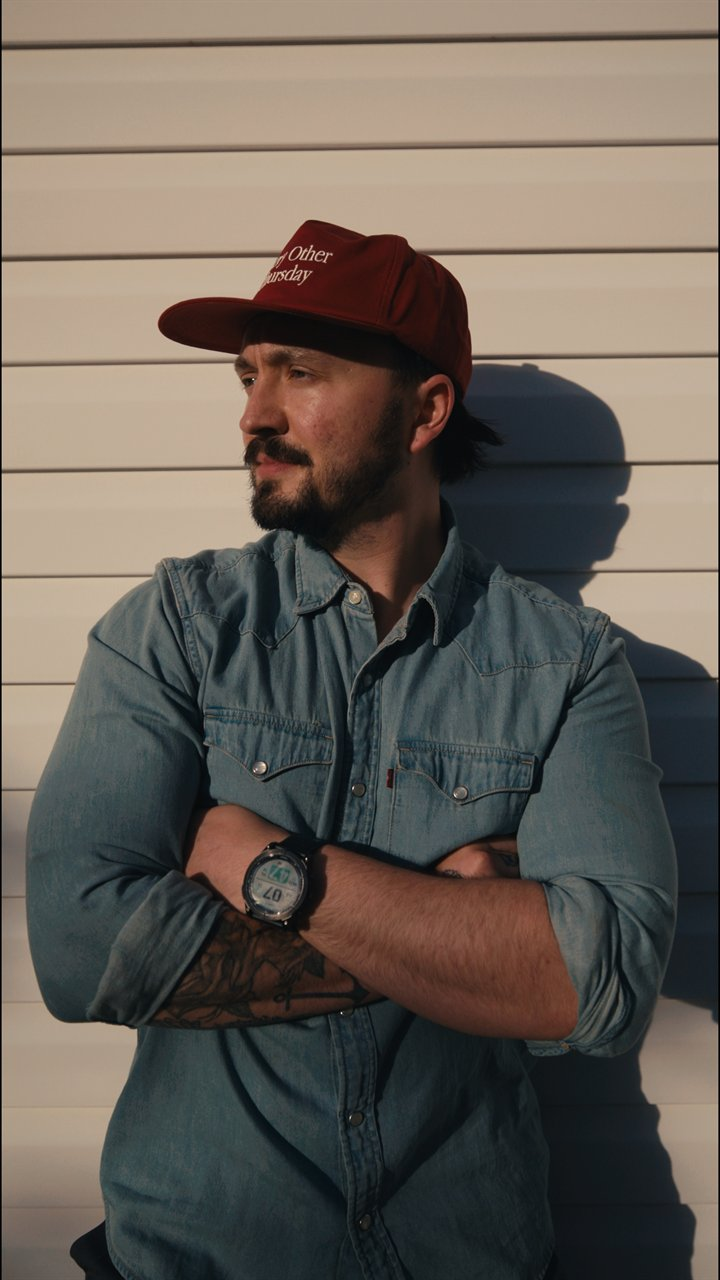
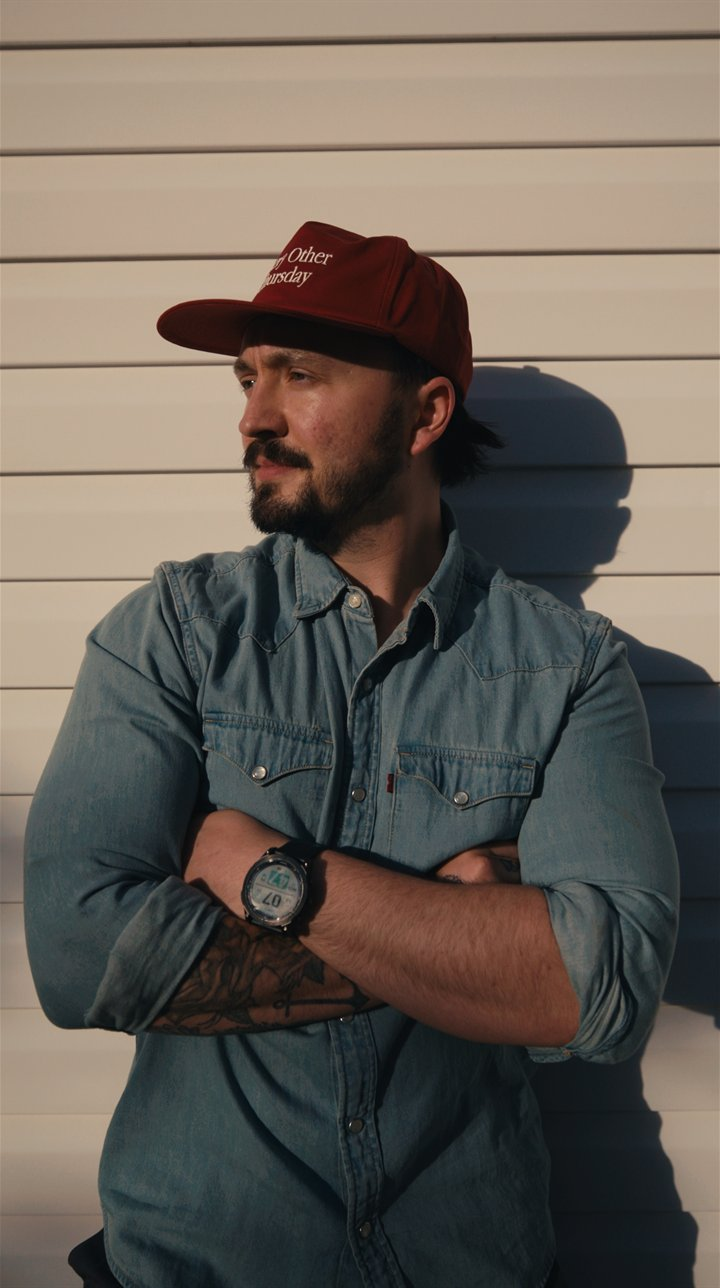
Trim black edges from profile photo and adjust framing
The source export had 5px of pure black baked into its left and right
edges, which showed as stripes down the sides of the portrait. The web
copy is now regenerated from the original with 7px cropped off each side
(covers the solid black plus the anti-aliased fade).

Frame runs slightly longer (4:5 to 3:4) and the crop focus drops from
22% to 32%, so there is less headroom above him and more below.

diff --git a/src/styles/components.css b/src/styles/components.css
@@ -63,14 +63,15 @@
 
 /* ---------- Avatar ---------- */
 .avatar {
-  /* Full-width portrait rather than a small thumbnail. The source is 9:16,
-     so 4:5 shows plenty of him without the card running off the screen;
+  /* Full-width portrait rather than a small thumbnail. Source is 9:16;
+     3:4 runs a little longer than 4:5 did, and the focus sits lower so
+     there's less headroom up top and more of him below.
      max-height stops it eating the whole viewport on tall phones. */
-  --avatar-focus: 50% 22%;
+  --avatar-focus: 50% 32%;
 
   width: 100%;
-  aspect-ratio: 4 / 5;
-  max-height: 440px;
+  aspect-ratio: 3 / 4;
+  max-height: 480px;
   border-radius: 0; /* no frame, no rounding — bare image for now */
   overflow: hidden;
   background: linear-gradient(145deg, var(--accent-fill) 0%, var(--accent-deep) 100%);
